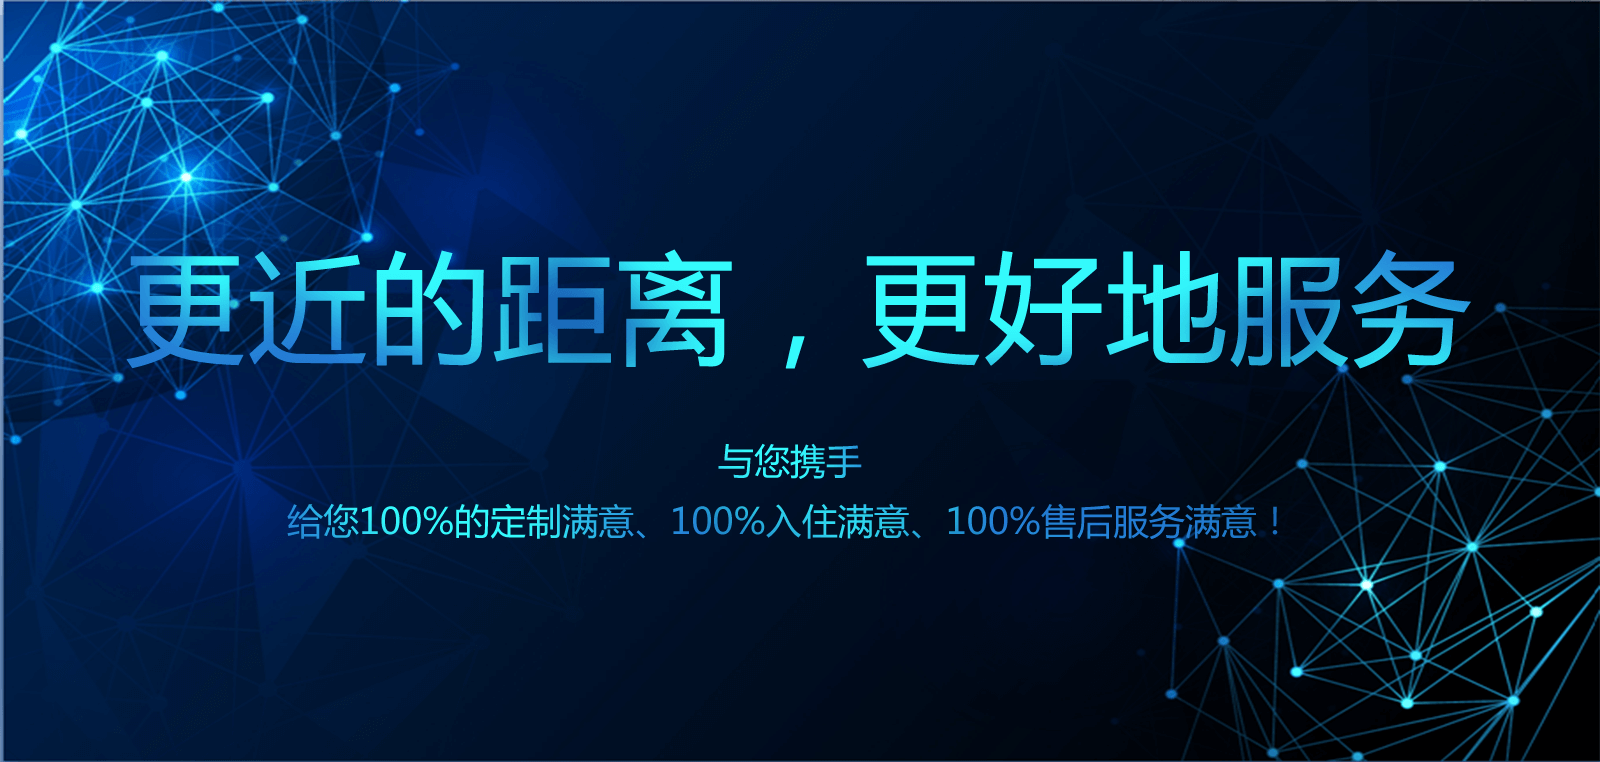
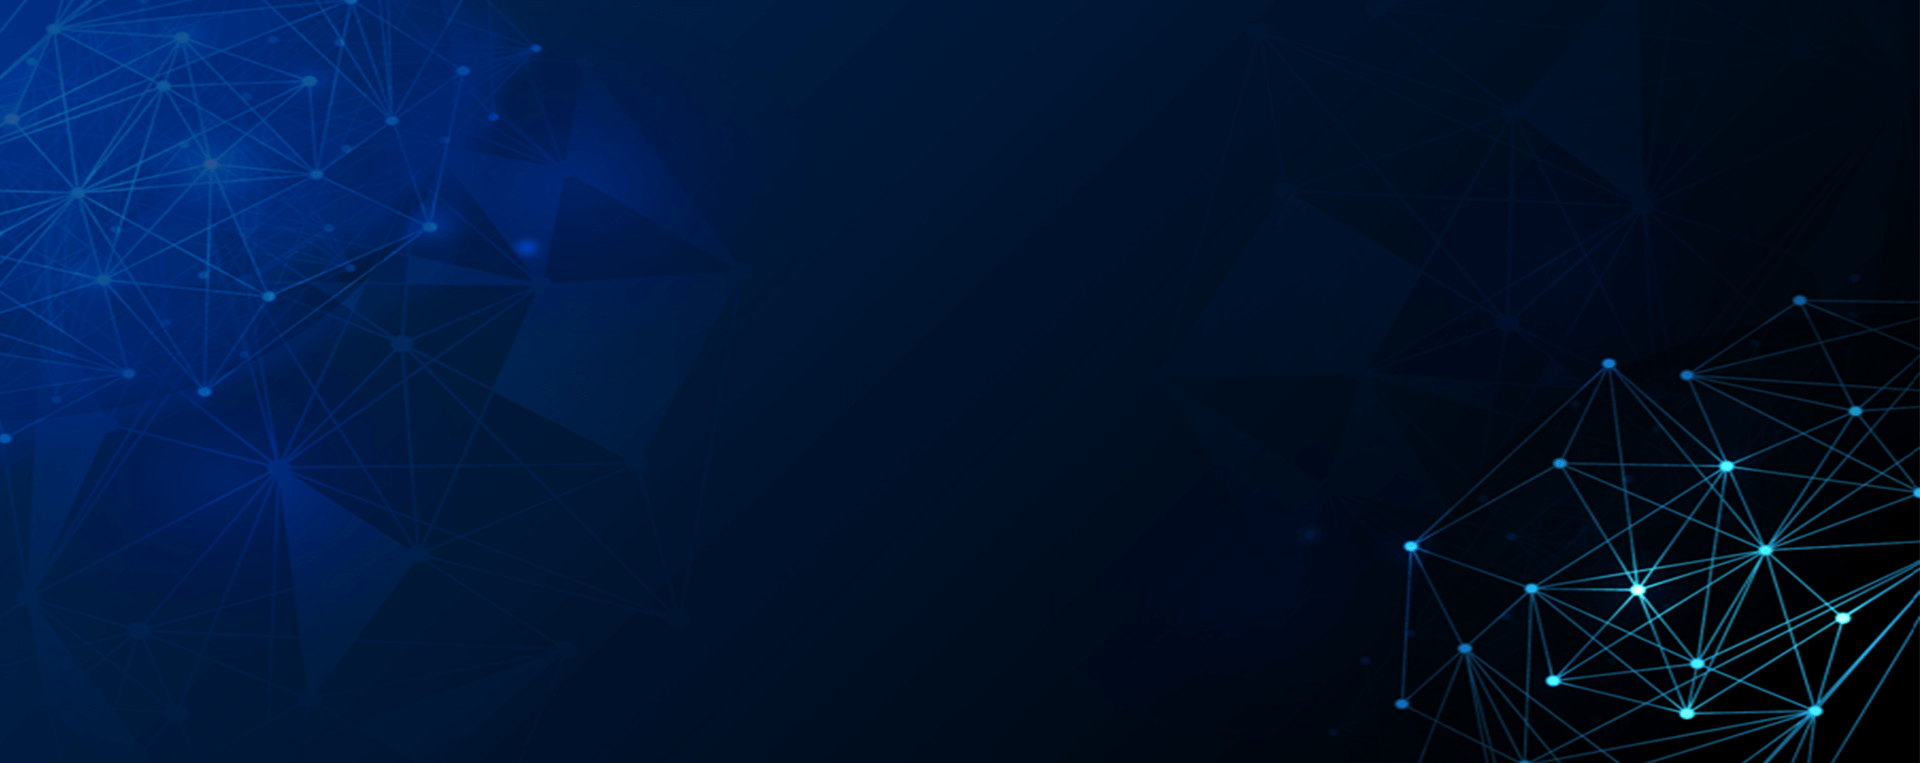
官网首页滚播样式

diff --git a/www/routers/index.vue b/www/routers/index.vue
@@ -2,6 +2,7 @@
     @import "../../src/styles/index.less";
     @import "../resources/css/index/index.less";
     @import "../resources/css/popup/popup.less";
+    @import "../resources/plugin/animate/animate.min.css";
     /*弹窗*/
     @import "../resources/plugin/swiper/css/swiper.css"; /*swiper 轮播*/
 
@@ -89,22 +90,30 @@
                         <div class="swiper-wrapper">
                             <div class="swiper-slide">
                                 <a href="javascript:;">
-                                    <div class="banner_img banner02"></div>
+                                    <div class="banner_img banner01">
+                                        <img id="animate_index1" src="../resources/images/index/ban_word1.png" alt="">
+                                    </div>
                                 </a>
                             </div>
                             <div class="swiper-slide">
                                 <a href="javascript:;">
-                                    <div class="banner_img banner01"></div>
+                                    <div class="banner_img banner02">
+                                        <img id="animate_index2" src="../resources/images/index/ban_word2.png" alt="">
+                                    </div>
                                 </a>
                             </div>
                             <div class="swiper-slide">
                                 <a href="javascript:;">
-                                    <div class="banner_img banner03"></div>
+                                    <div class="banner_img banner03">
+
+                                    </div>
                                 </a>
                             </div>
                             <div class="swiper-slide">
                                 <a href="javascript:;">
-                                    <div class="banner_img banner04"></div>
+                                    <div class="banner_img banner04">
+                                        <img id="animate_index4" src="../resources/images/index/ban_word4.png" alt="">
+                                    </div>
                                 </a>
                             </div>
                         </div>
@@ -709,7 +718,28 @@
                 //fade: {
                 //    crossFade: false,
                 //},
-                autoplayDisableOnInteraction: true  //鼠标操作时关闭autopaly
+                autoplayDisableOnInteraction: true,  //鼠标操作时关闭autopaly
+
+                onSlideChangeStart: function(swiper){
+                    if (swiper.activeIndex == 1) {
+                        $('#animate_index1').addClass('animated infinite rotateInUpRight');
+                        setTimeout(function () {
+                            $('#animate_index1').removeClass('animated infinite rotateInUpRight')
+                        }, 1000);
+                    }else if (swiper.activeIndex == 2) {
+                        $('#animate_index2').addClass('animated infinite rotateInUpRight');
+                        setTimeout(function () {
+                            $('#animate_index2').removeClass('animated infinite rotateInUpRight')
+                        }, 1000);
+                    }else if (swiper.activeIndex == 3) {
+
+                    }else if (swiper.activeIndex == 4) {
+                        $('#animate_index4').addClass('animated infinite rotateInUpRight');
+                        setTimeout(function () {
+                            $('#animate_index4').removeClass('animated infinite rotateInUpRight')
+                        }, 1000);
+                    }
+                }
 
             });
 

diff --git a/www/resources/css/index/index.css b/www/resources/css/index/index.css
@@ -62,6 +62,29 @@
 }
 [index_content] .banner_wrap .banner_cont .banner_img {
   height: 600px;
+  position: relative;
+}
+[index_content] .banner_wrap .banner_cont .banner_img > img {
+  position: absolute;
+}
+[index_content] .banner_wrap .banner_cont .banner_img > img#animate_index1 {
+  left: 50%;
+  top: 250px;
+  width: 480px;
+  height: 170px;
+  margin-left: -240px;
+}
+[index_content] .banner_wrap .banner_cont .banner_img > img#animate_index2 {
+  right: 200px;
+  top: 250px;
+  width: 508px;
+  height: 200px;
+}
+[index_content] .banner_wrap .banner_cont .banner_img > img#animate_index4 {
+  left: 200px;
+  top: 250px;
+  width: 480px;
+  height: 170px;
 }
 [index_content] .banner_wrap .banner_cont .banner_img.banner01 {
   background: url("../../images/index/banner01.png") no-repeat;

diff --git a/www/resources/css/index/index.less b/www/resources/css/index/index.less
@@ -8,6 +8,33 @@
       position: relative;
       .banner_img {
         height: 600px;
+        position: relative;
+        >img{
+          position: absolute;
+          &#animate_index1 {
+            left: 50%;
+            top: 250px;
+            width:480px;
+            height:170px;
+            margin-left: -240px;
+          }
+
+          &#animate_index2{
+            right: 200px;
+            top: 250px;
+            width:508px;
+            height:200px;
+          }
+
+          &#animate_index4 {
+            left: 200px;
+            top: 250px;
+            width:480px;
+            height:170px;
+          }
+        }
+
+
         &.banner01 {
           background: url("../../images/index/banner01.png") no-repeat;
           background-size: 100% 100%;
